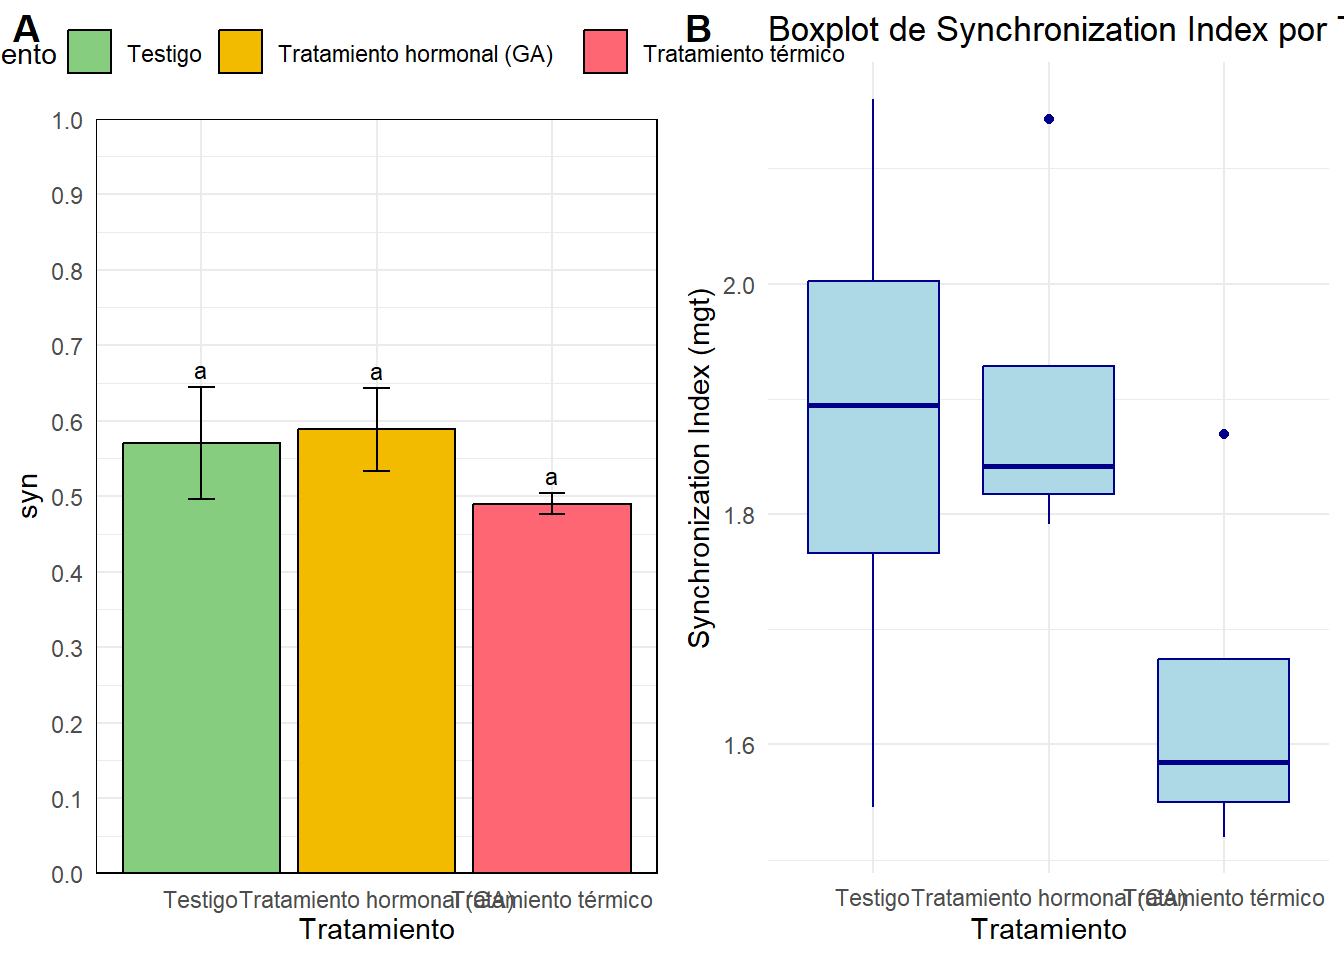
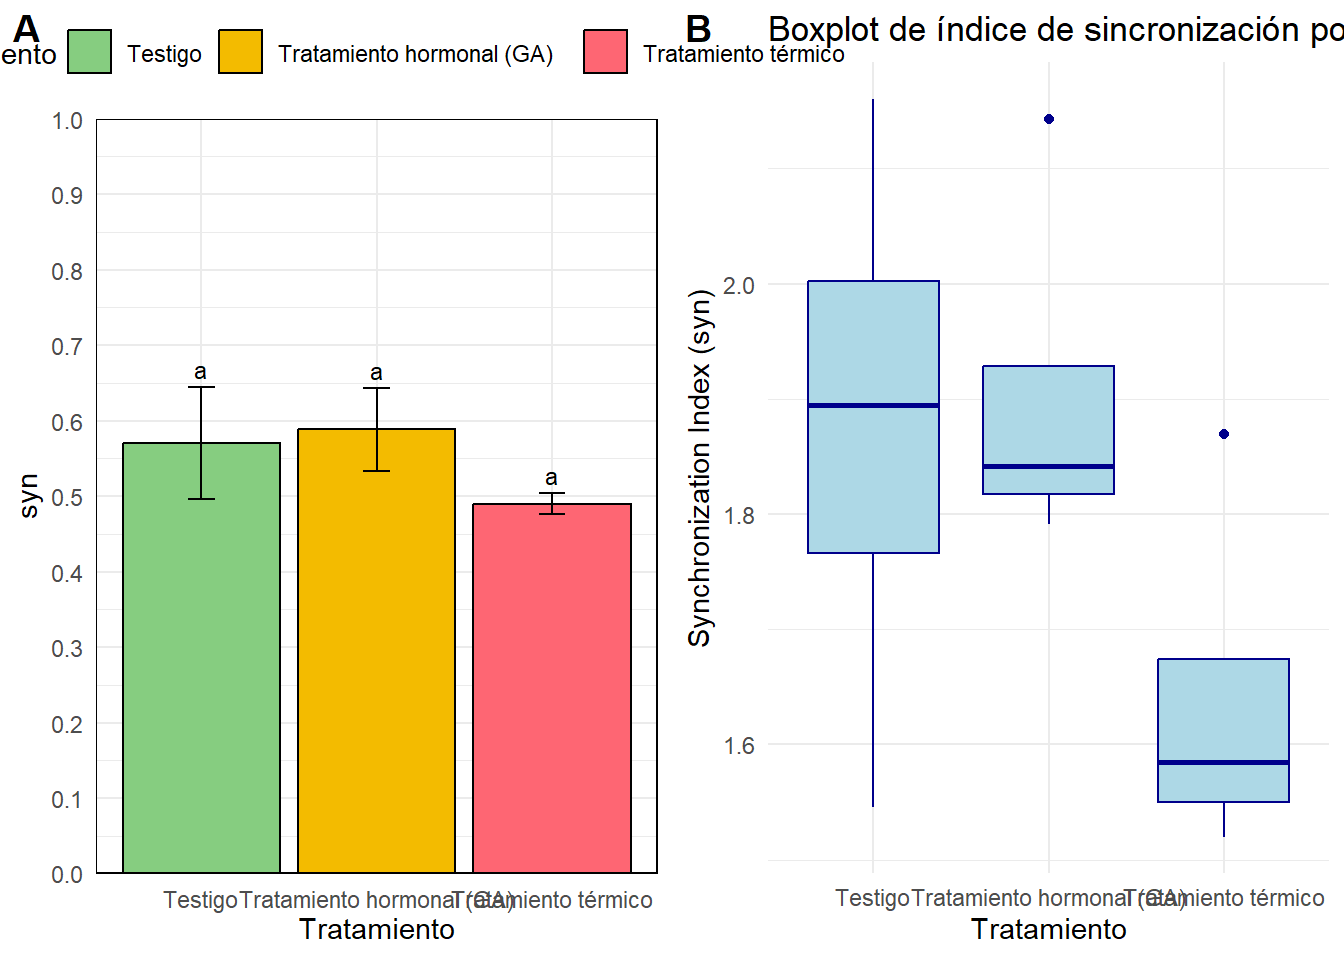
kool

Changed region(s): [[0.6875, 0.0, 1.0, 0.0625], [0.5, 0.3125, 0.5312, 0.6875]]

diff --git a/analize.html b/analize.html
@@ -8,7 +8,7 @@
 
 <meta name="author" content="Euler G">
 
-<title>Germinación – GRUPO C</title>
+<title>Analisis de Germinación – GRUPO F</title>
 <style>
 code{white-space: pre-wrap;}
 span.smallcaps{font-variant: small-caps;}
@@ -113,7 +113,7 @@ pre > code.sourceCode > span > a:first-child::before { text-decoration: underlin
       <div class="navbar-container container-fluid">
       <div class="navbar-brand-container mx-auto">
     <a class="navbar-brand" href="./index.html">
-    <span class="navbar-title">GRUPO C</span>
+    <span class="navbar-title">GRUPO F</span>
     </a>
   </div>
             <div id="quarto-search" class="" title="Search"></div>
@@ -129,6 +129,10 @@ pre > code.sourceCode > span > a:first-child::before { text-decoration: underlin
   <li class="nav-item">
     <a class="nav-link" href="./info.html"> 
 <span class="menu-text">Informe</span></a>
+  </li>  
+  <li class="nav-item">
+    <a class="nav-link active" href="./analize.html" aria-current="page"> 
+<span class="menu-text">Analisis</span></a>
   </li>  
 </ul>
           </div> <!-- /navcollapse -->
@@ -165,7 +169,7 @@ pre > code.sourceCode > span > a:first-child::before { text-decoration: underlin
 
 <header id="title-block-header" class="quarto-title-block default">
 <div class="quarto-title">
-<h1 class="title">Germinación</h1>
+<h1 class="title">Analisis de Germinación</h1>
 </div>
 
 
@@ -220,7 +224,7 @@ pre > code.sourceCode > span > a:first-child::before { text-decoration: underlin
 <div class="cell-output cell-output-stderr">
 <pre><code>Warning in system2("quarto", "-V", stdout = TRUE, env = paste0("TMPDIR=", : el
 comando ejecutado '"quarto"
-TMPDIR=C:/Users/Euler/AppData/Local/Temp/RtmpsJUlHI/file47fc3d732e01 -V' tiene
+TMPDIR=C:/Users/Euler/AppData/Local/Temp/Rtmp4ItU2K/file3130248c4144 -V' tiene
 el estatus 1</code></pre>
 </div>
 <div class="cell-output cell-output-stdout">
@@ -1067,9 +1071,9 @@ el estatus 1</code></pre>
 <span id="cb21-10"><a href="#cb21-10" aria-hidden="true" tabindex="-1"></a>      )</span>
 <span id="cb21-11"><a href="#cb21-11" aria-hidden="true" tabindex="-1"></a>b3 <span class="ot">&lt;-</span> <span class="fu">ggplot</span>(gsm, <span class="fu">aes</span>(<span class="at">x =</span> Tratamiento, <span class="at">y =</span> mgt)) <span class="sc">+</span></span>
 <span id="cb21-12"><a href="#cb21-12" aria-hidden="true" tabindex="-1"></a>  <span class="fu">geom_boxplot</span>(<span class="at">fill =</span> <span class="st">"lightblue"</span>, <span class="at">color =</span> <span class="st">"darkblue"</span>) <span class="sc">+</span></span>
-<span id="cb21-13"><a href="#cb21-13" aria-hidden="true" tabindex="-1"></a>  <span class="fu">labs</span>(<span class="at">title =</span> <span class="st">"Boxplot de Synchronization Index por Tratamiento"</span>,</span>
+<span id="cb21-13"><a href="#cb21-13" aria-hidden="true" tabindex="-1"></a>  <span class="fu">labs</span>(<span class="at">title =</span> <span class="st">"Boxplot de índice de sincronización por Tratamiento"</span>,</span>
 <span id="cb21-14"><a href="#cb21-14" aria-hidden="true" tabindex="-1"></a>       <span class="at">x =</span> <span class="st">"Tratamiento"</span>,</span>
-<span id="cb21-15"><a href="#cb21-15" aria-hidden="true" tabindex="-1"></a>       <span class="at">y =</span> <span class="st">"Synchronization Index (mgt)"</span>) <span class="sc">+</span></span>
+<span id="cb21-15"><a href="#cb21-15" aria-hidden="true" tabindex="-1"></a>       <span class="at">y =</span> <span class="st">"Synchronization Index (syn)"</span>) <span class="sc">+</span></span>
 <span id="cb21-16"><a href="#cb21-16" aria-hidden="true" tabindex="-1"></a>  <span class="fu">theme_minimal</span>()</span>
 <span id="cb21-17"><a href="#cb21-17" aria-hidden="true" tabindex="-1"></a></span>
 <span id="cb21-18"><a href="#cb21-18" aria-hidden="true" tabindex="-1"></a>plotv3 <span class="ot">&lt;-</span> <span class="fu">list</span>(p3, b3) <span class="sc">%&gt;%</span> </span>
@@ -1197,7 +1201,7 @@ el estatus 1</code></pre>
 <span id="cb23-10"><a href="#cb23-10" aria-hidden="true" tabindex="-1"></a>      )</span>
 <span id="cb23-11"><a href="#cb23-11" aria-hidden="true" tabindex="-1"></a>b4 <span class="ot">&lt;-</span> <span class="fu">ggplot</span>(gsm, <span class="fu">aes</span>(<span class="at">x =</span> Tratamiento, <span class="at">y =</span> mgt)) <span class="sc">+</span></span>
 <span id="cb23-12"><a href="#cb23-12" aria-hidden="true" tabindex="-1"></a>  <span class="fu">geom_boxplot</span>(<span class="at">fill =</span> <span class="st">"lightblue"</span>, <span class="at">color =</span> <span class="st">"darkblue"</span>) <span class="sc">+</span></span>
-<span id="cb23-13"><a href="#cb23-13" aria-hidden="true" tabindex="-1"></a>  <span class="fu">labs</span>(<span class="at">title =</span> <span class="st">"Boxplot de tiempo medio de germinacion por Tratamiento"</span>,</span>
+<span id="cb23-13"><a href="#cb23-13" aria-hidden="true" tabindex="-1"></a>  <span class="fu">labs</span>(<span class="at">title =</span> <span class="st">"Boxplot de germinabilidad por Tratamiento"</span>,</span>
 <span id="cb23-14"><a href="#cb23-14" aria-hidden="true" tabindex="-1"></a>       <span class="at">x =</span> <span class="st">"Tratamiento"</span>,</span>
 <span id="cb23-15"><a href="#cb23-15" aria-hidden="true" tabindex="-1"></a>       <span class="at">y =</span> <span class="st">"Germinability (grp)"</span>) <span class="sc">+</span></span>
 <span id="cb23-16"><a href="#cb23-16" aria-hidden="true" tabindex="-1"></a>  <span class="fu">theme_minimal</span>()</span>

diff --git a/info.html b/info.html
@@ -115,6 +115,10 @@ div.csl-indent {
     <a class="nav-link active" href="./info.html" aria-current="page"> 
 <span class="menu-text">Informe</span></a>
   </li>  
+  <li class="nav-item">
+    <a class="nav-link" href="./analize.html"> 
+<span class="menu-text">Analisis</span></a>
+  </li>  
 </ul>
           </div> <!-- /navcollapse -->
             <div class="quarto-navbar-tools">

diff --git a/index.html b/index.html
@@ -94,6 +94,10 @@ ul.task-list li input[type="checkbox"] {
     <a class="nav-link" href="./info.html"> 
 <span class="menu-text">Informe</span></a>
   </li>  
+  <li class="nav-item">
+    <a class="nav-link" href="./analize.html"> 
+<span class="menu-text">Analisis</span></a>
+  </li>  
 </ul>
           </div> <!-- /navcollapse -->
             <div class="quarto-navbar-tools">
